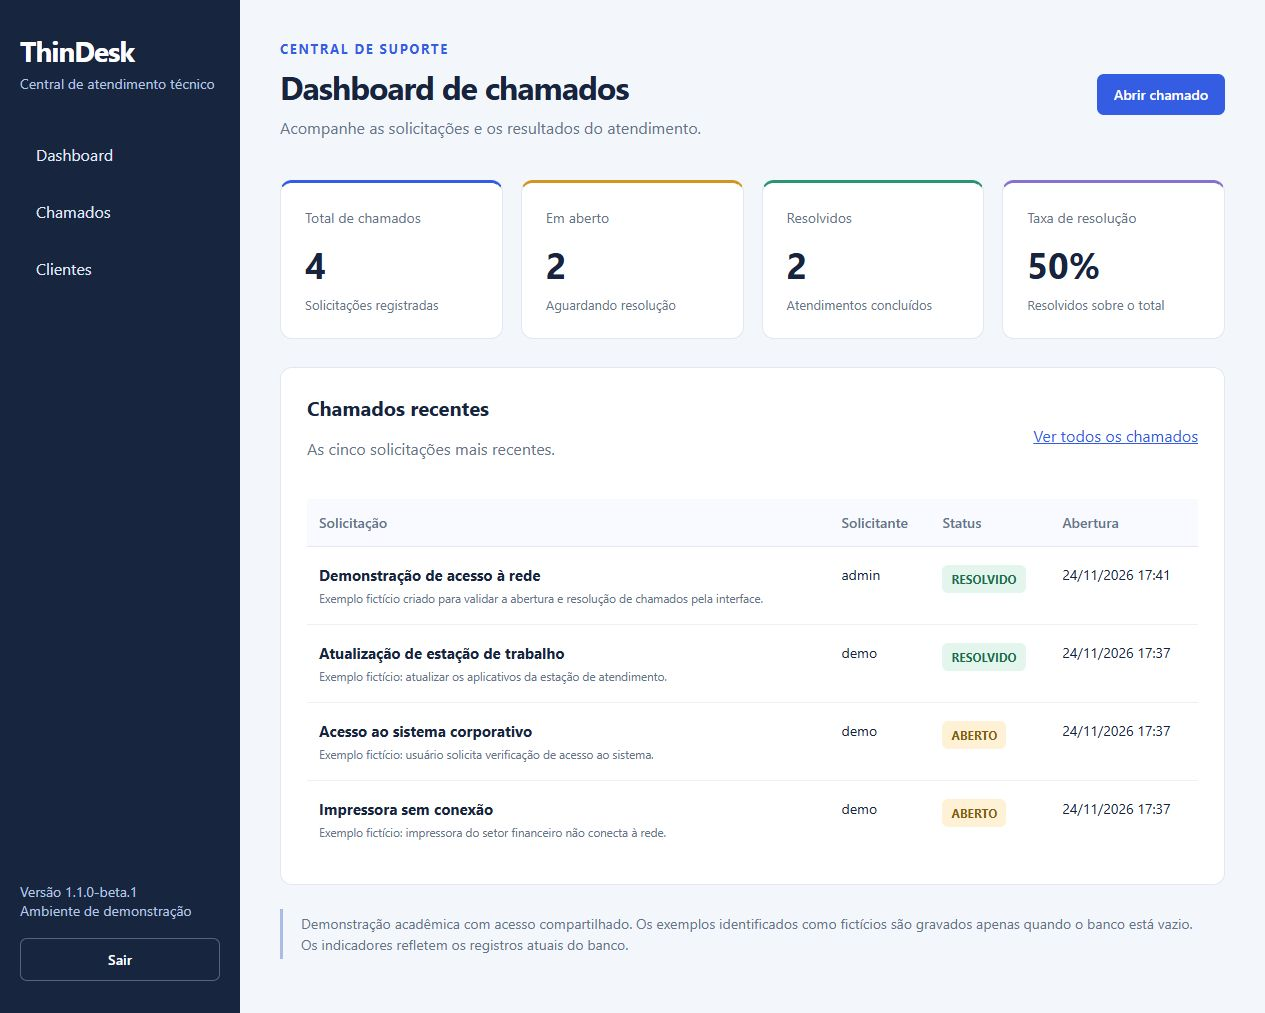
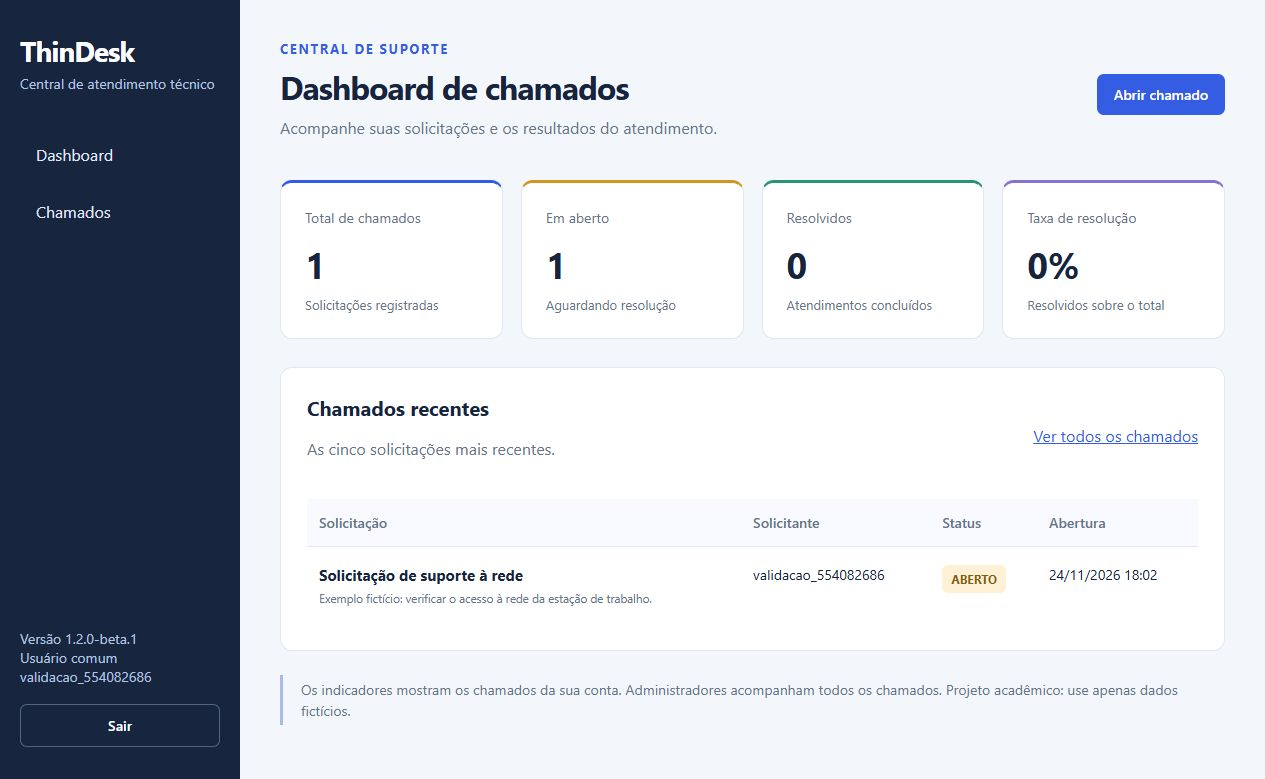
docs: atualizar prints e instruções para cadastro individual

diff --git a/README.md b/README.md
@@ -19,6 +19,8 @@ As contas são persistidas no MongoDB. As senhas são armazenadas como hashes BC
 
 Este é um projeto acadêmico: utilize apenas dados fictícios nos chamados.
 
+![Tela pública de cadastro](docs/cadastro.jpg)
+
 ## Versionamento semântico
 
 **Versão atual: `1.2.0-beta.1`**, declarada no `pom.xml` e na interface.
@@ -38,7 +40,7 @@ O código recebido tinha a identificação `1.0-alpha`, sem os três números ex
 
 ![Dashboard real do ThinDesk](docs/dashboard.jpg)
 
-A captura corresponde ao código deste repositório. O usuário comum visualiza o total, os chamados abertos e resolvidos, a taxa de resolução e os cinco chamados mais recentes **da sua própria conta**. Administradores visualizam o conjunto de chamados. Os valores vêm do MongoDB e variam conforme o uso.
+Captura de uma conta comum em 24/11/2026, com uma solicitação fictícia criada na validação pelo navegador. A imagem corresponde ao código deste repositório. O usuário comum visualiza o total, os chamados abertos e resolvidos, a taxa de resolução e os cinco chamados mais recentes **da sua própria conta**. Administradores visualizam o conjunto de chamados. Os valores vêm do MongoDB e variam conforme o uso.
 
 Os exemplos fictícios da inicialização são visíveis somente para administradores. O cadastro de um novo usuário começa sem chamados.
 
@@ -114,7 +116,7 @@ A coleção `postman/ThinDesk-Chamados.postman_collection.json` exige que você 
 
 ## Validação e entrega
 
-A rotina de integração cobre cadastro público, validações, nome duplicado, armazenamento de senha com hash, login e logout, perfil comum obrigatório, proteção CSRF, isolamento dos chamados e resolução administrativa. Os resultados ficam em [GitHub Actions](https://github.com/ErickSantosBarbosa04/AleAtt23-10/actions).
+A rotina de integração cobre cadastro público, validações, nome duplicado, armazenamento de senha com hash, login e logout, perfil comum obrigatório, proteção CSRF, isolamento dos chamados e resolução administrativa. A compilação e os três testes de integração passaram em 24/11/2026. Os resultados ficam em [GitHub Actions](https://github.com/ErickSantosBarbosa04/AleAtt23-10/actions/runs/45486522392).
 
 | Requisito da atividade | Entrega |
 | --- | --- |
@@ -123,3 +125,5 @@ A rotina de integração cobre cadastro público, validações, nome duplicado, 
 | Deploy funcionando com login para qualquer pessoa (3 pontos) | Links de acesso e cadastro público no início deste README. |
 
 Baixe o ZIP atualizado da branch `main` para entregar o mesmo código do deploy e da documentação.
+
+A validação no site publicado confirmou dois cadastros independentes, login e logout, persistência do chamado e isolamento dos dados: a segunda conta não visualiza o chamado criado pela primeira.
